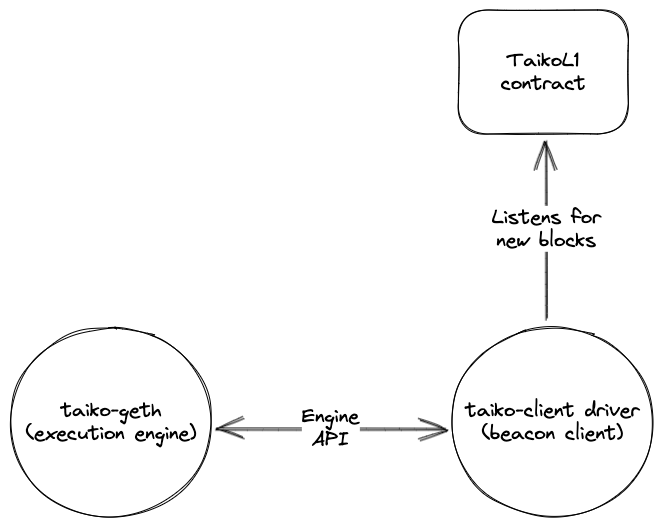
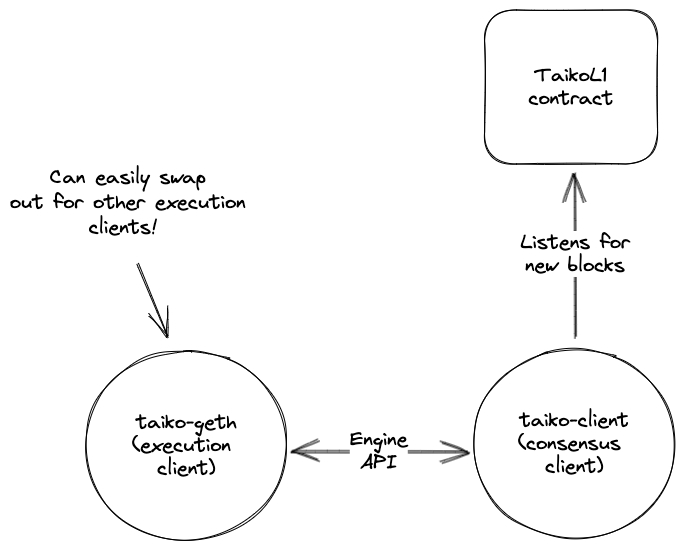
chore(website): update taiko nodes documentation (#13920)

diff --git a/packages/website/pages/docs/concepts/overview.md b/packages/website/pages/docs/concepts/overview.md
@@ -1,3 +1,5 @@
+## Overview
+
 Taiko aims to build a secure, decentralized, and permissionless [rollup](https://www.youtube.com/watch?v=7pWxCklcNsU) on Ethereum. These requirements dictate the following properties:
 
 1. All block data required to reconstruct the post-block state needs to be put on Ethereum so it is publicly available. If this would not be the case, Taiko would not only fail to be a rollup but would also fail to be fully decentralized. This data is required so that anyone can know the latest chain state and so that useful new blocks can be appended to the chain. For the decentralization of the proof generation Taiko requires an even stronger requirement: all block data needed to be able to re-execute all work in a block in a step-by-step fashion needs to be made public. This makes it possible for provers to generate a proof for a block using only publicly known data.
